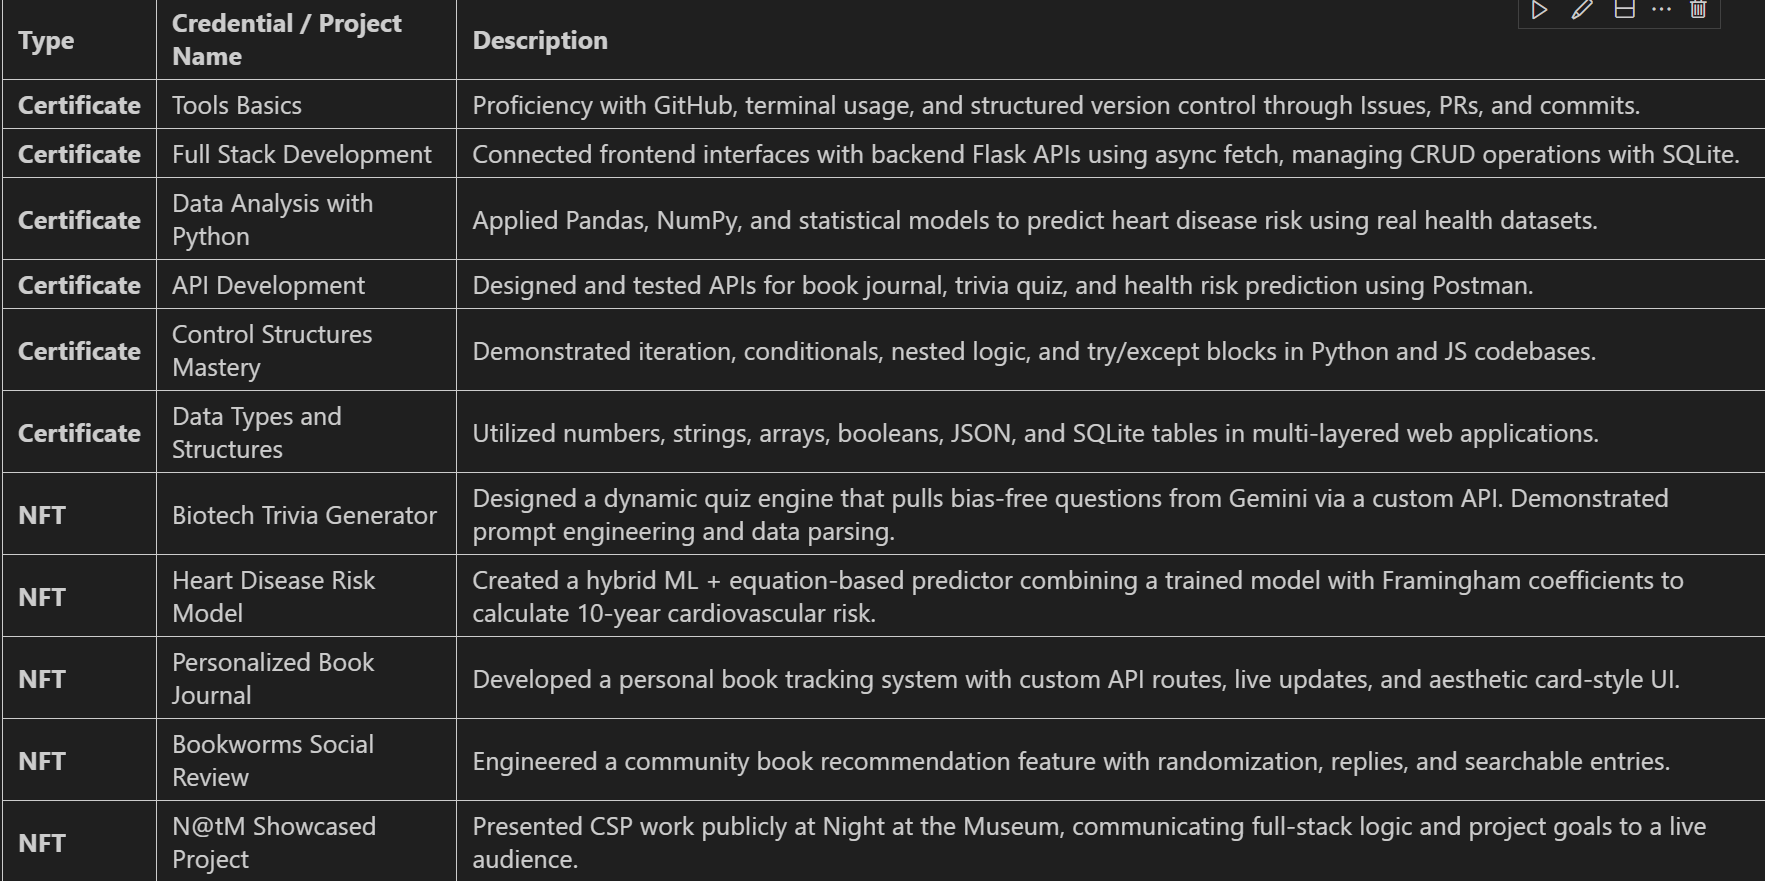
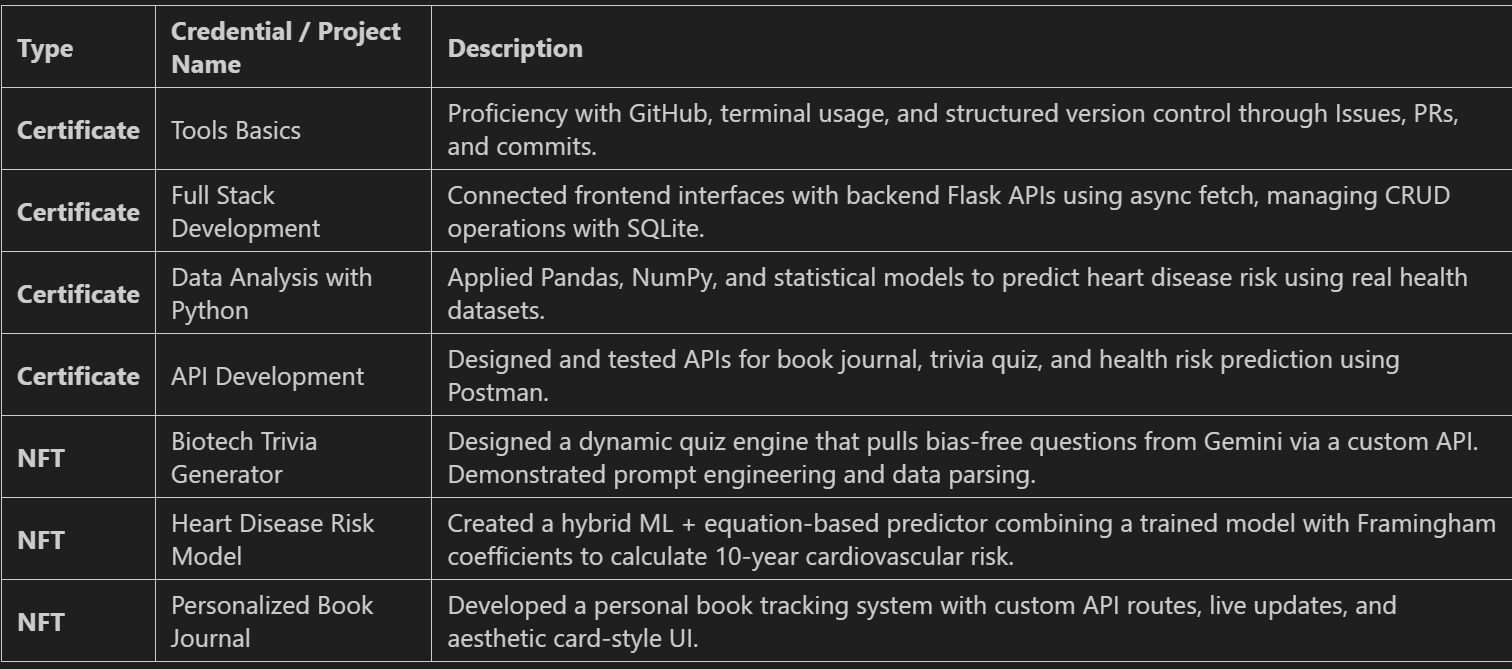
certificates

Changed region(s): [[0.0, 0.0, 1.0, 1.0], [0.8393, 0.0, 0.9947, 0.0299]]

diff --git a/navigation/final_review.md b/navigation/final_review.md
@@ -143,10 +143,6 @@ As part of the Pilot City process, I had the chance to present my work on the tr
 | **Certificate** | Full Stack Development | Connected frontend interfaces with backend Flask APIs using async fetch, managing CRUD operations with SQLite. |
 | **Certificate** | Data Analysis with Python | Applied Pandas, NumPy, and statistical models to predict heart disease risk using real health datasets. |
 | **Certificate** | API Development | Designed and tested APIs for book journal, trivia quiz, and health risk prediction using Postman. |
-| **Certificate** | Control Structures Mastery | Demonstrated iteration, conditionals, nested logic, and try/except blocks in Python and JS codebases. |
-| **Certificate** | Data Types and Structures | Utilized numbers, strings, arrays, booleans, JSON, and SQLite tables in multi-layered web applications. |
 | **NFT**     | Biotech Trivia Generator | Designed a dynamic quiz engine that pulls bias-free questions from Gemini via a custom API. Demonstrated prompt engineering and data parsing. |
 | **NFT**     | Heart Disease Risk Model | Created a hybrid ML + equation-based predictor combining a trained model with Framingham coefficients to calculate 10-year cardiovascular risk. |
 | **NFT**     | Personalized Book Journal | Developed a personal book tracking system with custom API routes, live updates, and aesthetic card-style UI. |
-| **NFT**     | Bookworms Social Review | Engineered a community book recommendation feature with randomization, replies, and searchable entries. |
-| **NFT**     | N@tM Showcased Project | Presented CSP work publicly at Night at the Museum, communicating full-stack logic and project goals to a live audience. |
